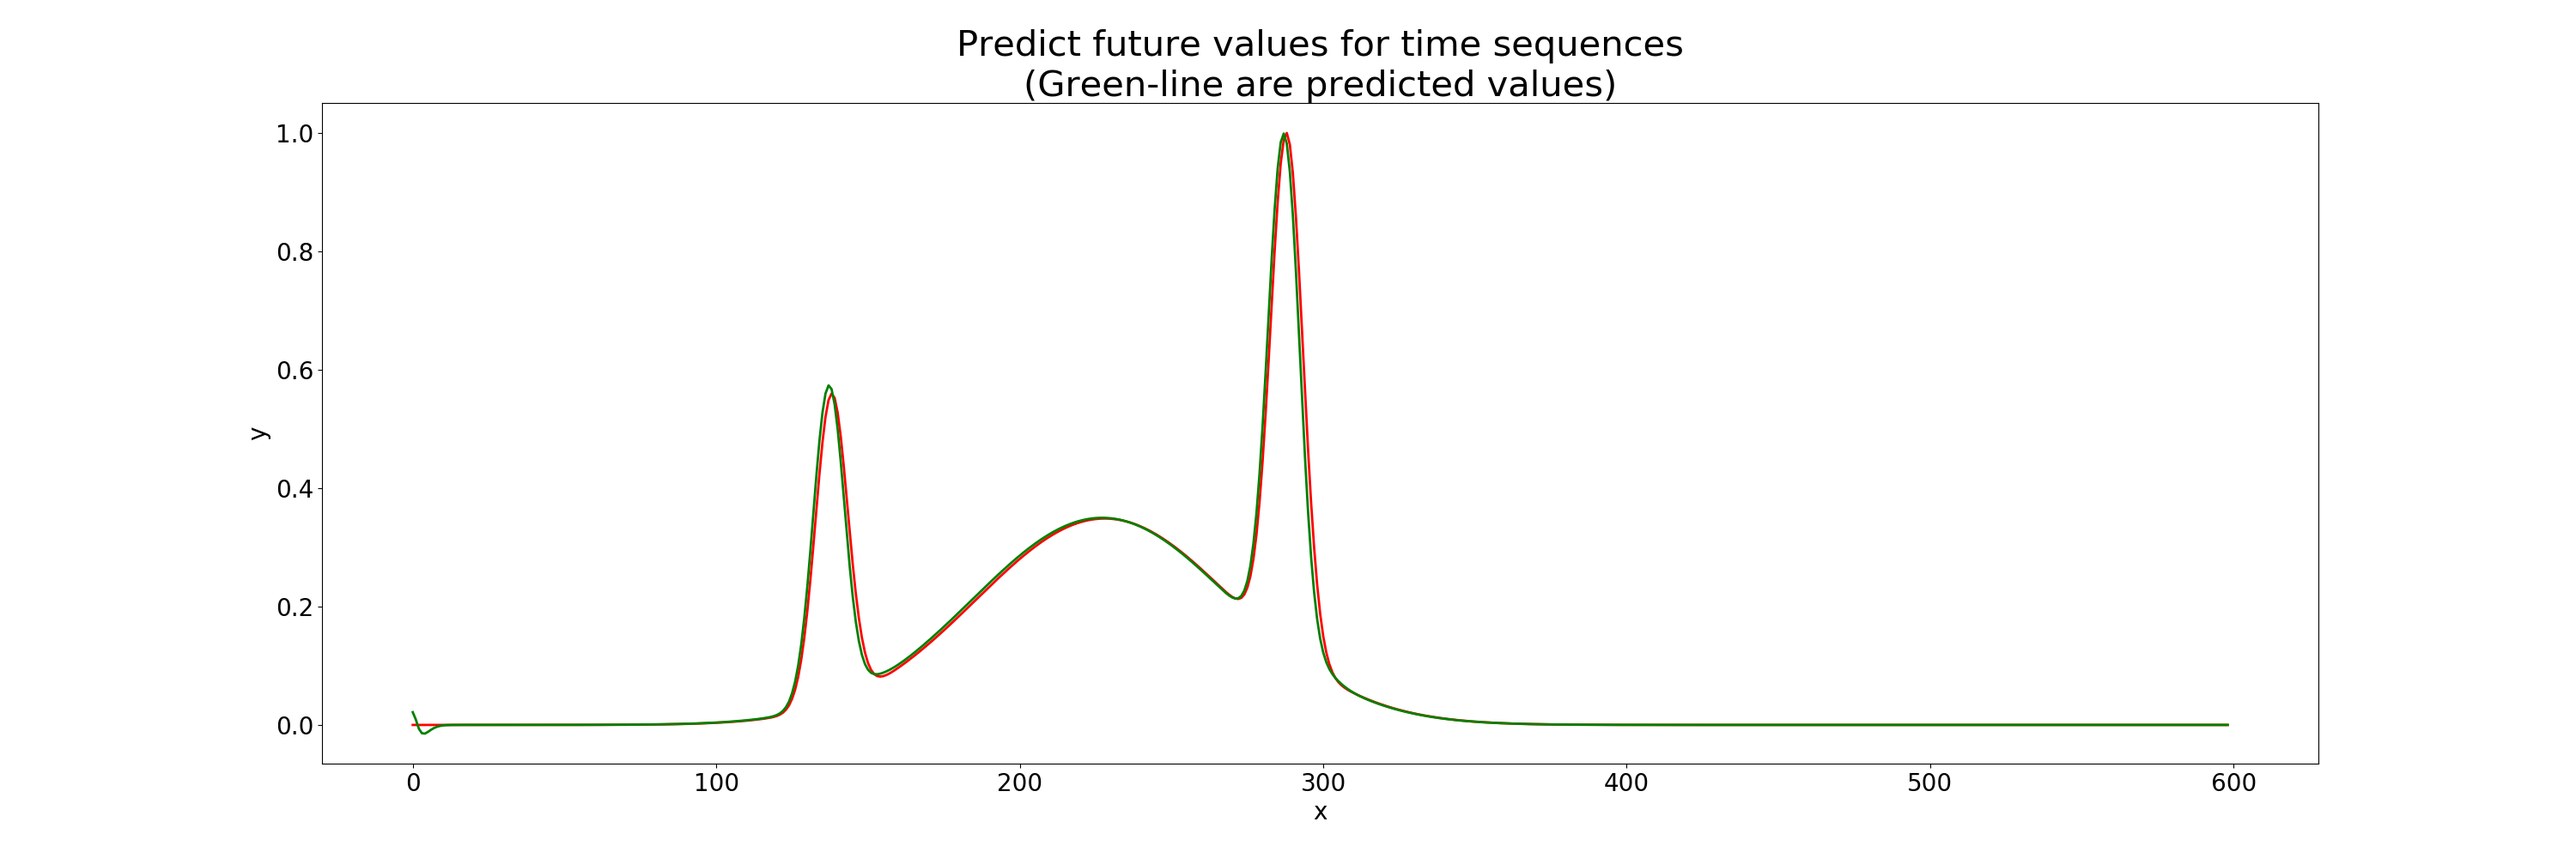
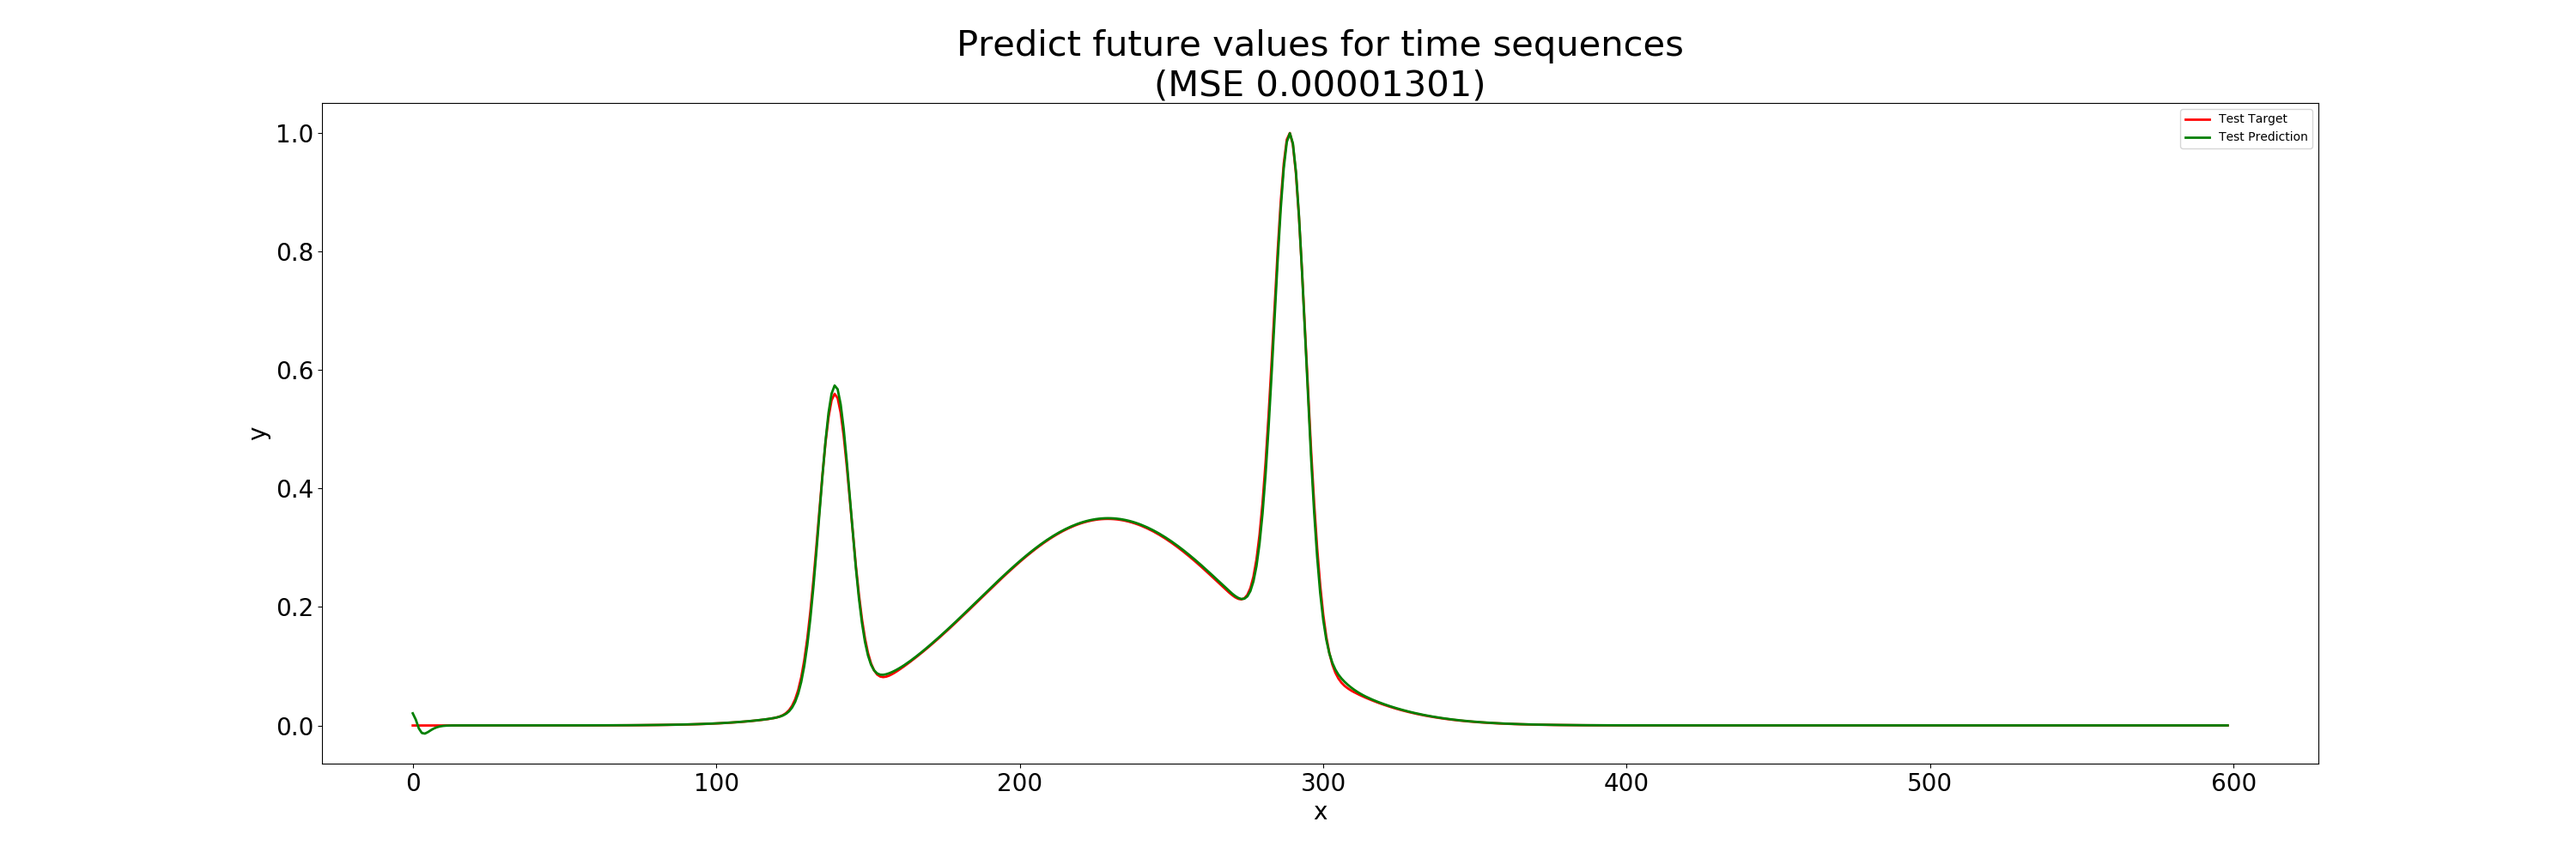
update

diff --git a/Time_Series_Prediction_ESN/simple_esn.py b/Time_Series_Prediction_ESN/simple_esn.py
@@ -25,6 +25,7 @@ from sklearn.utils import check_random_state, check_array
 from numpy import zeros, ones, concatenate, array, tanh, vstack, arange
 import numpy as np
 import scipy.linalg as la
+from pprint import pprint
 
 class SimpleESN(BaseEstimator, TransformerMixin):
     """Simple Echo State Network (ESN)
@@ -67,7 +68,7 @@ class SimpleESN(BaseEstimator, TransformerMixin):
     weights_ : array_Like, shape (n_components, n_components)
         Weight matrix for the reservoir
 
-    components_ : array_like, shape (n_samples, 1+n_features+n_components)
+    components_ : array_like, shape (lens_ts, 1+n_features+n_components)
         Activation of the n_components reservoir neurons, including the
         n_features input neurons and the bias neuron, which has a constant
         activation.
@@ -80,9 +81,9 @@ class SimpleESN(BaseEstimator, TransformerMixin):
 
     >>> from simple_esn import SimpleESN
     >>> import numpy as np
-    >>> n_samples, n_features = 10, 5
+    >>> lens_ts, n_features = 10, 5
     >>> np.random.seed(0)
-    >>> X = np.random.randn(n_samples, n_features)
+    >>> X = np.random.randn(lens_ts, n_features)
     >>> esn =SimpleESN(n_readout = 2)
     >>> echoes = esn.fit_transform(X)
     """
@@ -99,22 +100,34 @@ class SimpleESN(BaseEstimator, TransformerMixin):
         self.weights_ = None
 
     def _fit_transform(self, X):
-        n_samples, n_features = X.shape
+        lens_ts, n_features = X.shape
+        # lens_ts means the lens of the time sequence
+        # n_features means the features in every input time
         X = check_array(X, ensure_2d=True)
-        self.weights_ = self.random_state.rand(self.n_components, self.n_components)-0.5
-        spectral_radius = np.max(np.abs(la.eig(self.weights_)[0]))
-        self.weights_ *=  self.weight_scaling / spectral_radius
-        print(self.weights_.shape)
         self.input_weights_ = self.random_state.rand(self.n_components,
                                                          1+n_features)-0.5
         self.readout_idx_ = self.random_state.permutation(arange(1+n_features,
                                     1+n_features+self.n_components))[:self.n_readout]
         self.components_ = zeros(shape=(1+n_features+self.n_components,
-                                        n_samples))
+                                        lens_ts))
+        self.weights_ = self.random_state.rand(self.n_components, self.n_components)-0.5
+        spectral_radius = np.max(np.abs(la.eig(self.weights_)[0]))
+        self.weights_ *=  self.weight_scaling / spectral_radius
+        
+        esn_parameters={
+            'esn_input_shape': X.shape,
+            'esn_input_ts_lens': lens_ts,
+            'esn_ts_features': n_features,
+            'esn_input_weights_shape': self.input_weights_.shape,
+            'esn_hidden_units':self.n_components,
+            'esn_hidden_units_out':self.n_readout,
+            'esn_hidden_weights_shape':self.weights_.shape
+        }
+        pprint(esn_parameters)
 
         curr_ = zeros(shape=(self.n_components, 1))
-        U = concatenate((ones(shape=(n_samples, 1)), X), axis=1)
-        for t in range(n_samples):
+        U = concatenate((ones(shape=(lens_ts, 1)), X), axis=1)
+        for t in range(lens_ts):
             u = array(U[t,:], ndmin=2).T
             curr_ = (1-self.damping)*curr_ + self.damping*tanh(
                 self.input_weights_.dot(u) + self.weights_.dot(curr_))
@@ -129,7 +142,7 @@ class SimpleESN(BaseEstimator, TransformerMixin):
         
         Parameters
         ----------
-        X : array-like shape, (n_samples, n_features)
+        X : array-like shape, (lens_ts, n_features)
             The data to be transformed.
             
         Returns
@@ -144,12 +157,12 @@ class SimpleESN(BaseEstimator, TransformerMixin):
 
         Parameters
         ----------
-        X : array-like of shape [n_samples, n_features]
+        X : array-like of shape [lens_ts, n_features]
             training set.
 
         Returns
         -------
-        readout : array, shape (n_samples, n_readout)
+        readout : array, shape (lens_ts, n_readout)
             Reservoir activation generated by the readout neurons
         """
         self = self._fit_transform(X)
@@ -160,16 +173,16 @@ class SimpleESN(BaseEstimator, TransformerMixin):
 
         Parameters
         ----------
-        X : array-like shape, (n_samples, n_features)
+        X : array-like shape, (lens_ts, n_features)
             The data to be transformed.
 
         Returns
         -------
-        readout : array, shape (n_samples, n_readout)
+        readout : array, shape (lens_ts, n_readout)
             Reservoir activation generated by the readout neurons
         """
         X = check_array(X, ensure_2d=True)
-        n_samples, n_features = X.shape
+        lens_ts, n_features = X.shape
         
         if self.weights_ is None:
             self.weights_ = self.random_state.rand(self.n_components,
@@ -183,11 +196,11 @@ class SimpleESN(BaseEstimator, TransformerMixin):
             self.readout_idx_ = self.random_state.permutation(arange(1+n_features,
                                     1+n_features+self.n_components))[:self.n_readout]
         self.components_ = zeros(shape=(1+n_features+self.n_components,
-                                        n_samples))
+                                        lens_ts))
 
         curr_ = zeros(shape=(self.n_components, 1))
-        U = concatenate((ones(shape=(n_samples, 1)), X), axis=1)
-        for t in range(n_samples):
+        U = concatenate((ones(shape=(lens_ts, 1)), X), axis=1)
+        for t in range(lens_ts):
             u = array(U[t,:], ndmin=2).T
             curr_ = (1-self.damping)*curr_ + self.damping*tanh(
                 self.input_weights_.dot(u) + self.weights_.dot(curr_))

diff --git a/Time_Series_Prediction_ESN/gru_train_gpu.py b/Time_Series_Prediction_ESN/gru_train_gpu.py
@@ -4,7 +4,11 @@ import torch
 import torch.nn as nn
 from torch.autograd import Variable
 import torch.optim as optim
+
 import numpy as np
+from numpy import atleast_2d
+from sklearn.metrics import mean_squared_error
+
 import matplotlib
 matplotlib.use('Agg')
 import matplotlib.pyplot as plt
@@ -52,10 +56,12 @@ if __name__ == '__main__':
         torch.manual_seed(0)
         # load data and make training set
         data = torch.load('traindata.pt')
-        input = Variable(torch.from_numpy(data[3:, :-1]), requires_grad=False).cuda()
-        target = Variable(torch.from_numpy(data[3:, 1:]), requires_grad=False).cuda()
-        test_input = Variable(torch.from_numpy(data[:3, :-1]), requires_grad=False).cuda()
-        test_target = Variable(torch.from_numpy(data[:3, 1:]), requires_grad=False).cuda()
+
+        # data shape should be (batch, lens_ts)
+        input = Variable(torch.from_numpy(atleast_2d(data[0, :-1])), requires_grad=False).cuda()
+        target = Variable(torch.from_numpy(atleast_2d(data[0, 1:])), requires_grad=False).cuda()
+        test_input = Variable(torch.from_numpy(atleast_2d(data[-1, :-1])), requires_grad=False).cuda()
+        test_target = Variable(torch.from_numpy(atleast_2d(data[-1, 1:])), requires_grad=False).cuda()
         # build the model
         seq = Sequence().cuda()
         seq.double()
@@ -84,19 +90,22 @@ if __name__ == '__main__':
             pred = seq(test_input, future = future)
             # loss = criterion(pred[:, :-future], test_target)
             # print('test loss:', loss.data[0])
-            y = pred.cpu().data.numpy()
+            y_pred = pred.cpu().data.numpy()
+            err = mean_squared_error(test_target.cpu().data.numpy(), y_pred)
+
             # draw the result
             plt.figure(figsize=(30,10))
-            plt.title('Predict future values for time sequences\n(Green-line are predicted values)', fontsize=30)
+            plt.title('Predict future values for time sequences\n(MSE %0.8f)' % err, fontsize=30)
             plt.xlabel('x', fontsize=20)
             plt.ylabel('y', fontsize=20)
             plt.xticks(fontsize=20)
             plt.yticks(fontsize=20)
-            def draw(yi, color):
-                plt.plot(np.arange(input.size(1)), yi[:input.size(1)], color, linewidth = 2.0)
+            def draw(yi, color, lable_name):
+                plt.plot(np.arange(input.size(1)), yi[:input.size(1)], color,label=lable_name, linewidth = 2.0)
                 # plt.plot(np.arange(input.size(1), input.size(1) + future), yi[input.size(1):], color + ':', linewidth = 2.0)
-            draw(test_input.cpu().data.numpy()[0], 'r')
-            draw(y[0], 'g')
+            draw(test_target.cpu().data.numpy()[0], 'r','Test Target')
+            draw(y_pred[0], 'g','Test Prediction')
+            plt.legend(loc='upper right')
             # draw(y[2], 'b')
             plt.savefig('./GRU_Results/predict%d.png'%i)
             plt.close()

diff --git a/Time_Series_Prediction_ESN/esn_train_cpu.py b/Time_Series_Prediction_ESN/esn_train_cpu.py
@@ -14,14 +14,16 @@ import torch
 if __name__ == '__main__':
     # load data and make training set
     data = torch.load('traindata.pt')
-
-    train_input = data[:-1, :-1]
-    train_target = data[:-1, 1:]
+    # data shape should be (lens_ts, n_features)
+    train_input = data[0, :-1]
+    train_input=atleast_2d(train_input).T
+    train_target = data[0, 1:]
+    train_target=atleast_2d(train_target).T
 
     test_input=data[-1,:-1]
-    test_input=test_input.reshape(1,len(test_input))
+    test_input=atleast_2d(test_input).T
     test_target=data[-1,1:]
-    test_target=test_target.reshape(1,len(test_target))
+    test_target=atleast_2d(test_target).T
 
     # Simple training
     model_esn = SimpleESN(n_readout=1000, n_components=1000,
@@ -37,17 +39,17 @@ if __name__ == '__main__':
 
     data_figures = plt.figure(figsize=(12, 4))
     trainplot = data_figures.add_subplot(1, 3, 1)
-    trainplot.plot(train_input[0,:], 'b')
+    trainplot.plot(train_input[:], 'b')
     trainplot.set_title('training signal')
 
     echoplot = data_figures.add_subplot(1, 3, 2)
     # echoplot.plot(echo_train_state[0, :20])
-    echoplot.plot(echo_train_state[0, :])
+    echoplot.plot(echo_train_state[:, :20])
     echoplot.set_title('ALL reservoir activation')
 
     testplot = data_figures.add_subplot(1, 3, 3)
-    testplot.plot(train_target[0,:], 'r', label='train signal')
-    testplot.plot(echo_train_pred[0,:], 'g', label='prediction')
+    testplot.plot(train_target[:], 'r', label='train signal')
+    testplot.plot(echo_train_pred[:], 'g', label='prediction')
     testplot.set_title('Prediction (MSE %0.8f)' % err_train)
 
     testplot.legend(loc='upper right')
@@ -62,16 +64,16 @@ if __name__ == '__main__':
 
     data_figures = plt.figure(figsize=(12, 4))
     trainplot = data_figures.add_subplot(1, 3, 1)
-    trainplot.plot(test_input[0,:], 'b')
+    trainplot.plot(test_input[:], 'b')
     trainplot.set_title('training signal')
 
     echoplot = data_figures.add_subplot(1, 3, 2)
-    echoplot.plot(echo_test_state[0, :20])
+    echoplot.plot(echo_test_state[:, :20])
     echoplot.set_title('Some reservoir activation')
 
     testplot = data_figures.add_subplot(1, 3, 3)
-    testplot.plot(test_target[0,:], 'r', label='test signal')
-    testplot.plot(echo_test_pred[0,:], 'g', label='prediction')
+    testplot.plot(test_target[:], 'r', label='test signal')
+    testplot.plot(echo_test_pred[:], 'g', label='prediction')
     testplot.set_title('Prediction (MSE %0.8f)' % err_test)
 
     testplot.legend(loc='upper right')

diff --git a/Time_Series_Prediction_ESN/plot_mackey_glass.py b/Time_Series_Prediction_ESN/plot_mackey_glass.py
@@ -32,7 +32,7 @@ if __name__ == '__main__':
     X = atleast_2d(X).T
     train_length = 2000
     test_length = 2000
-    
+    # data shape should be (lens_ts, n_features)
     X_train = X[:train_length]
     y_train = X[1:train_length+1]
     X_test = X[train_length:train_length+test_length]
@@ -61,7 +61,7 @@ if __name__ == '__main__':
     testplot.set_title('Prediction (MSE %0.3f)' % err)
     testplot.legend(loc='lower right')
     plt.tight_layout(0.5)
-    plt.savefig('Prediction.png')
+    plt.savefig('MackeyGlass_Pred.png')
 
     # Grid search
     pipeline = Pipeline([('esn', SimpleESN(n_readout=1000)),
@@ -98,6 +98,6 @@ if __name__ == '__main__':
     testplot.set_title('Prediction after GridSearch (MSE %0.3f)' % err)
     testplot.legend(loc='lower right')
     plt.tight_layout(0.5)
-    plt.savefig('Prediction after GridSearch.png')
+    plt.savefig('MackeyGlass_Pred after GridSearch.png')
     
     
